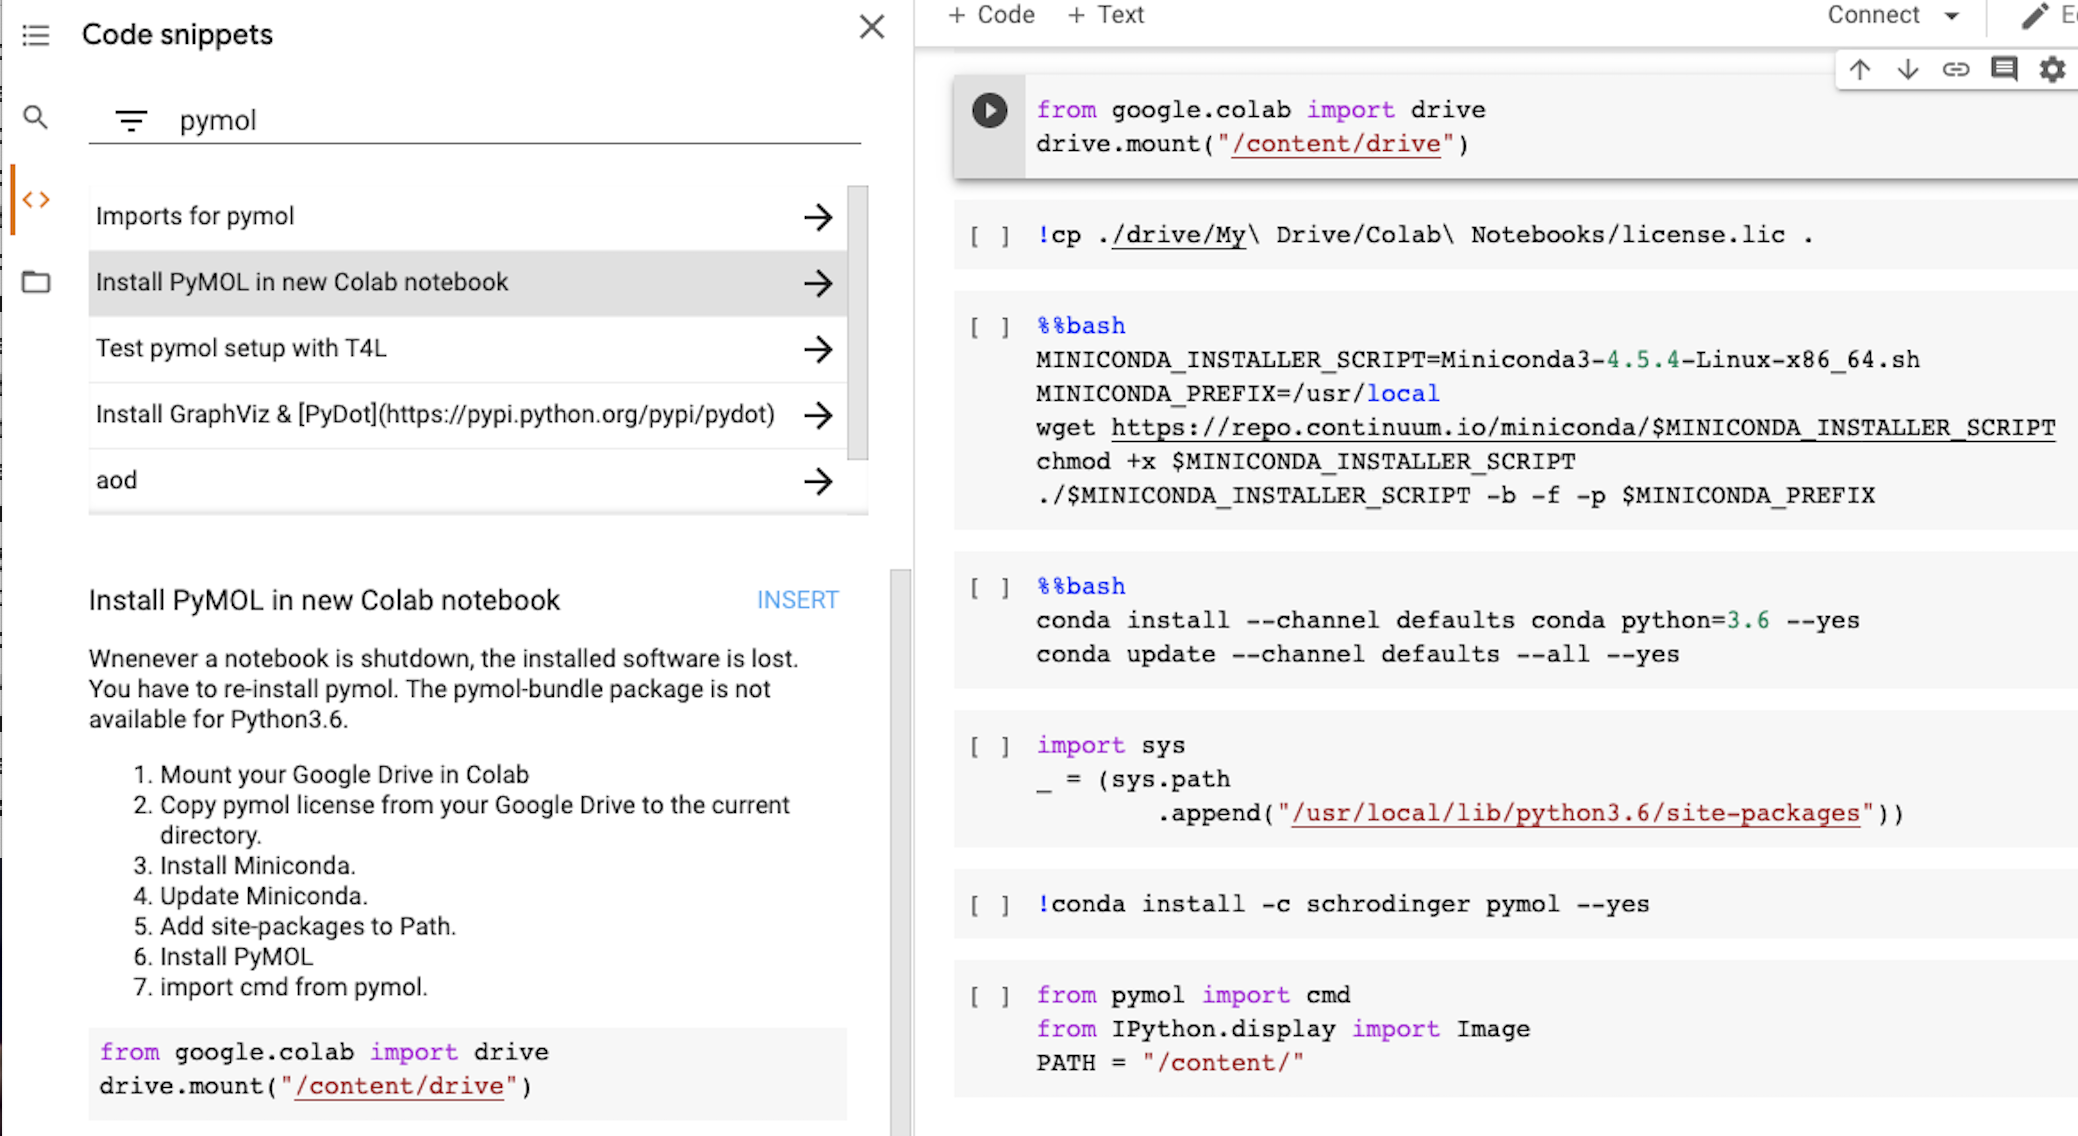
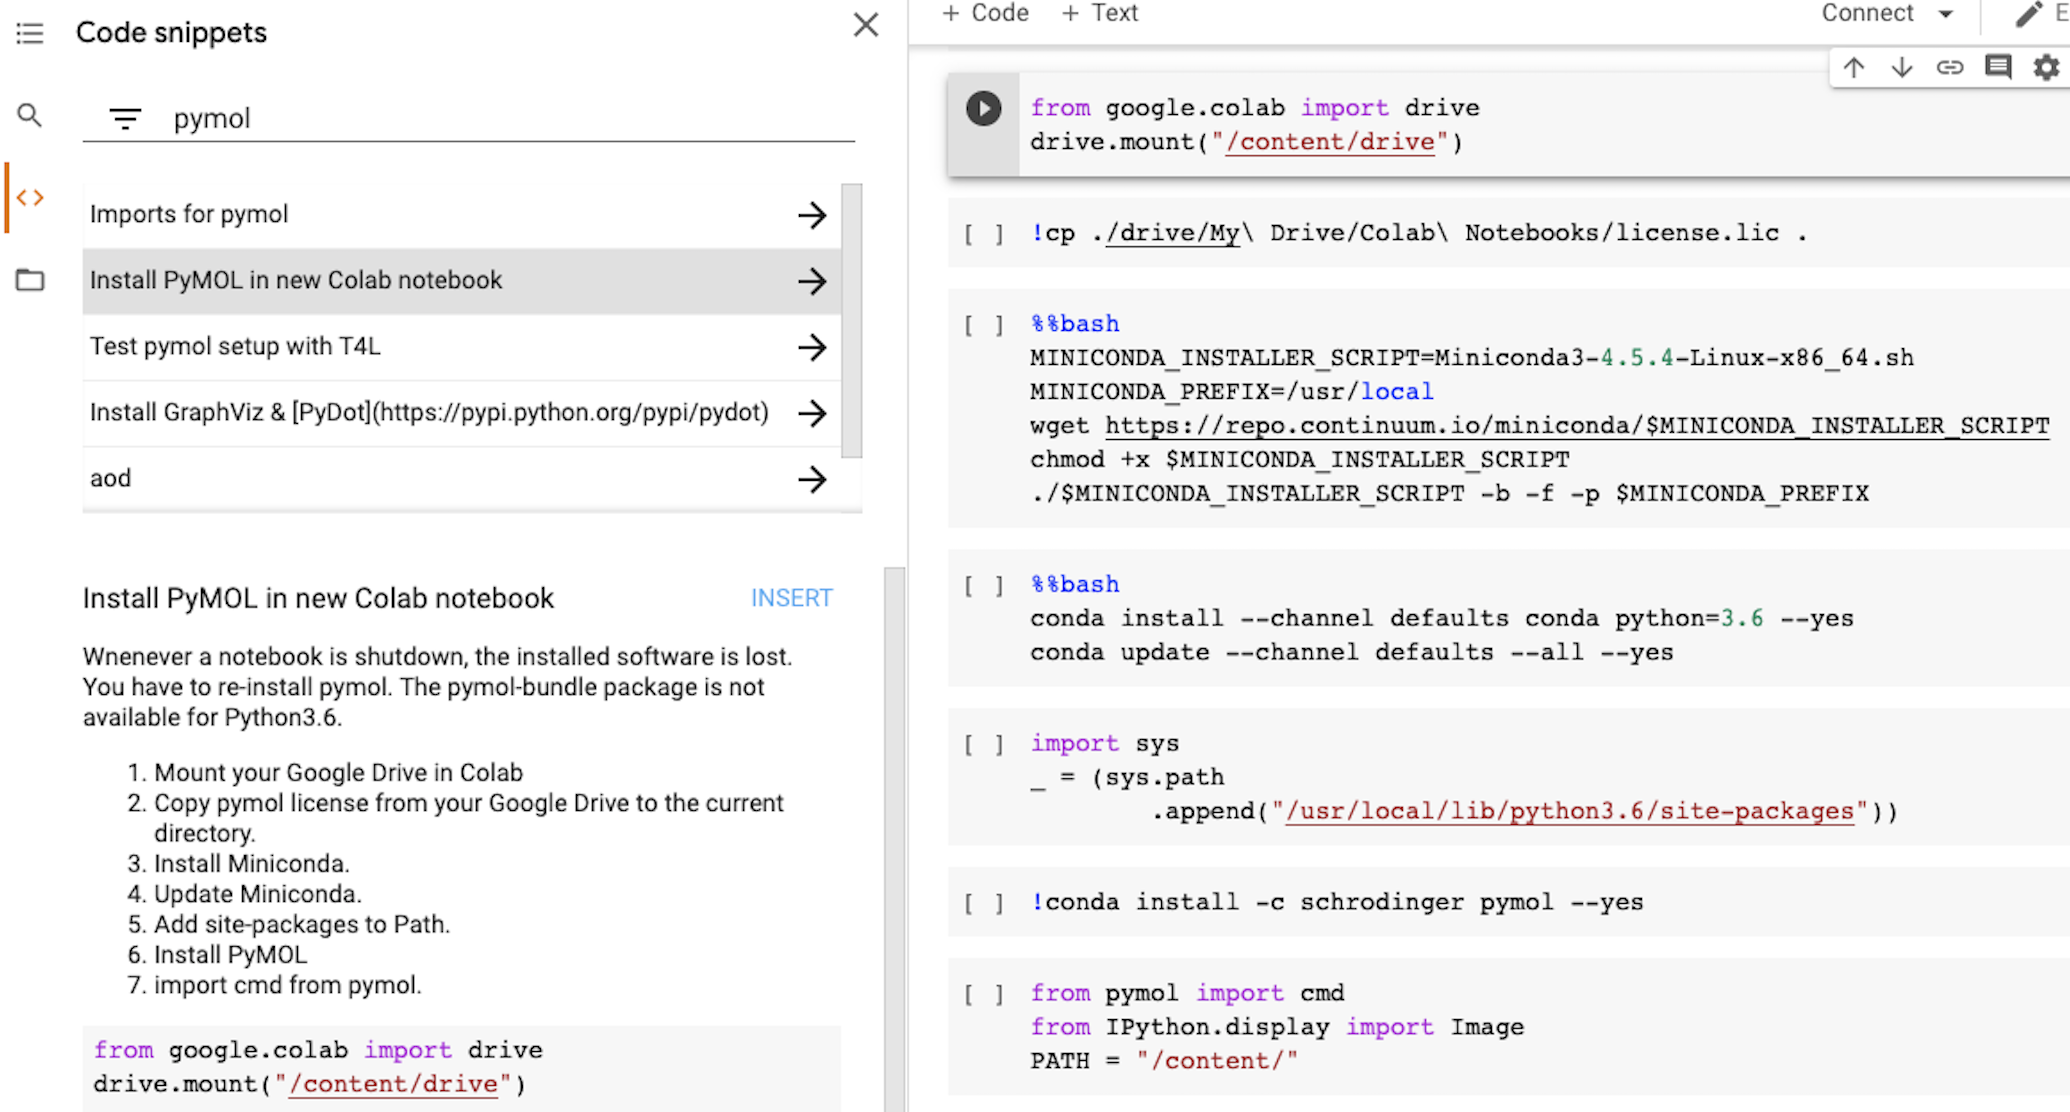
Added a paragraph to the results, added another figure, and converted several figures to two column wide to enlargen the text in the images.

diff --git a/papers/blaine_mooers/mooersblaine.rst b/papers/blaine_mooers/mooersblaine.rst
@@ -139,6 +139,9 @@ The user can scroll through the list of snippets.
 Hovering the mouse cursor over the snippet's name triggers the display of a description of the snippet.
 
 .. figure:: hbondsElyra.png 
+   :align: center
+   :figclass: w
+   :scale: 44%
 
    The GUI from the elyra-code-snippet extension for accessing code snippets is shown on the left. A preview of the *hbonddash* snippet is shown in the lower left. A Jupyter notebook with the inserted the *hbonddash* snippet is shown on the right. :label:`hbondElyra`
 
@@ -160,6 +163,9 @@ There is a save button at the bottom to add the new snippet to the current libra
 
 
 .. figure:: newElyraSnip.png
+   :align: center
+   :figclass: w
+   :scale: 39%
 
    The GUI from elyra-code-snippet extension for the creation of new snippets. The Learn more link takes the user to the documentation on Read-the-docs. :label:`newElyraSnip`
 
@@ -170,7 +176,7 @@ The latter provides a sanity check.
 For example, an attempt to insert a C++ snippet into a notebook with an active Python kernel will trigger the opening of a window with a warning.
 
 All of the snippets reside in the folder \url{JUPYTER_DATA/metadata/code-snippets}.
-This is the directory ~/Library/Jupyter/metadata/code-snippets on the Mac.
+This is the directory \url{~/Library/Jupyter/metadata/code-snippets} on the Mac.
 There are no subfolders for individual snippet libraries, unlike the jupyterlab-snippets extension.
 The snippets from multiple libraries are stored together in the code-snippets folder.
 The tag system can be used to select all snippets from one library.
@@ -198,6 +204,9 @@ Then a series of code snippets contained the code for carrying out the steps.
 This installation snippet was the only one in a notebook that contained more then one code snippet.
 
 .. figure:: ColabPyMOL.png 
+   :align: center
+   :figclass: w
+   :scale: 50%
 
    Code snippet for installing PyMOL on Colab. The <> icon opens a menu on the left side that lists all of the snippets. The search term 'pymol' was used to reduce the list of candidate snippets. The highlighted snippets name 'Install PyMOL is new Colab notebook'. Selecting this snippets opens the snippet below. The snippet description is displayed followed by the seven blocks of code. The description includes the seven steps for installing the molecular graphics programs. Clicking with the mouse cursor on 'INSERT' in blue inserts the code into in the cells on the notebook on the fight. :label:`ColabPyMOL`
 
@@ -246,11 +255,12 @@ The user uploads the libraries and notebook to their Google Drive account and ac
 The storage of the libraries and notebooks on Google Drive persists between logins to Google Colab, but the crystallographic software must be reinstalled on each use of Colab.
 These libraries are installed only once; however, the crystallographic software must be reinstalled upon each login.
 We describe below installation scripts in the form of snippets that can be quickly run at the top of a Notebook to minimize the effort required to re-install the software.
-Another limitation of the Colab snippet system is that snippets from all libraries are stored in one pool and have to be accessed by either scrolling through a log list or by entering the snippet name in a search box.
+Another limitation of the Colab snippet system is that snippets from all libraries are stored in one pool and have to be accessed by either scrolling through a long list or by entering the snippet name in a search box.
 We addressed this limitation with a snippet for each library that prints a list of the available snippets with a short description.
 This list can span more than the length of a paper, but it can be collapsed to hide it or can be deleted when no longer needed.
 After the snippet is pulled out of the list by the search box, more detailed documentation about the snippet is displayed. 
 Next, we describe the content of each library with representative output in the Colab notebook.
+
 
 Structure determination and refinement workflows with Phenix
 ************************************************************
@@ -350,18 +360,42 @@ While these are basic data science tasks, they are intimidating to new users of 
 To overcome this problem, we supply snippets that demonstrate how to transform the output and that can be used as templates by the users.  
 
 These commands are becoming harder to find as the on-line documentation has been migrating to serving only the GUI interface.
-The bash script files that run the Phenix commands can be found by running 
+The bash script files that run the Phenix commands can be found on Mac OSX by running the following command: 
 
 .. code-block:: bash
 
     !ls /Applications/phenix-*/build/bin/phenix.\*
 
 These shell scripts invoke Python scripts that capture the command line arguments and pass them to the Phenix Python interpreter.
+This Python script files can be found on Mac OSX by running the following command: 
 
 .. code-block:: bash
 
-    ls /Applications/phenix-1.19.2-4158/modules/phenix/phenix/command_line/*.py.
+    !ls /Applications/phenix-1.19.2-4158/modules/phenix/phenix/command_line/*.py.
 
+
+Molecular graphics with PyMOL
+*****************************
+
+The end result of the crystal structure refinement in Phenix is a set of atomic coordinates.
+They can be displayed in one of the many available molecular graphics programs like PyMOL [PyMO21]_.
+If PyMOL is available in the current Python environment, PyMOL's Python API can be accessed by importing the *cmd* class.
+In addition, it is useful to import the *Image* class from IPython to be able to upload images written to disk by PyMOL.
+
+.. code-block:: bash
+
+    from pymol import cmd
+    from IPython.display import Image
+
+
+After installing PyMOL in Colab as outlines in Figure :ref:`ColabPyMOL` and the PyMOL snippet library, the *T4L* snippet was inserted into a Colab notebook and executed.
+The snippet includes the IPython command that was used to upload the image into the Notebook as shown in Figure :ref:`ColabT4L`. 
+
+.. figure:: ColabT4L.png 
+
+   The code of the *T4L* snippet inserted into a code block in Colab. :label:`ColabT4L`.
+
+There are several other methods of importing images including using Markdown or HTML code.
 
 
 Discussion
@@ -595,6 +629,8 @@ References
            *NGLview--interactive molecular graphics for Jupyter notebooks*,
            Bioinformatics, 34(7):1241-1242, April 2017.
            doi: 10.1093/bioinformatics/btx789
+           
+.. [PyMO21] https://pymol.org/2/
            
 .. [Rese20] https://blog.jupyter.org/reusable-code-snippets-in-jupyterlab-8d75a0f9d207
             
